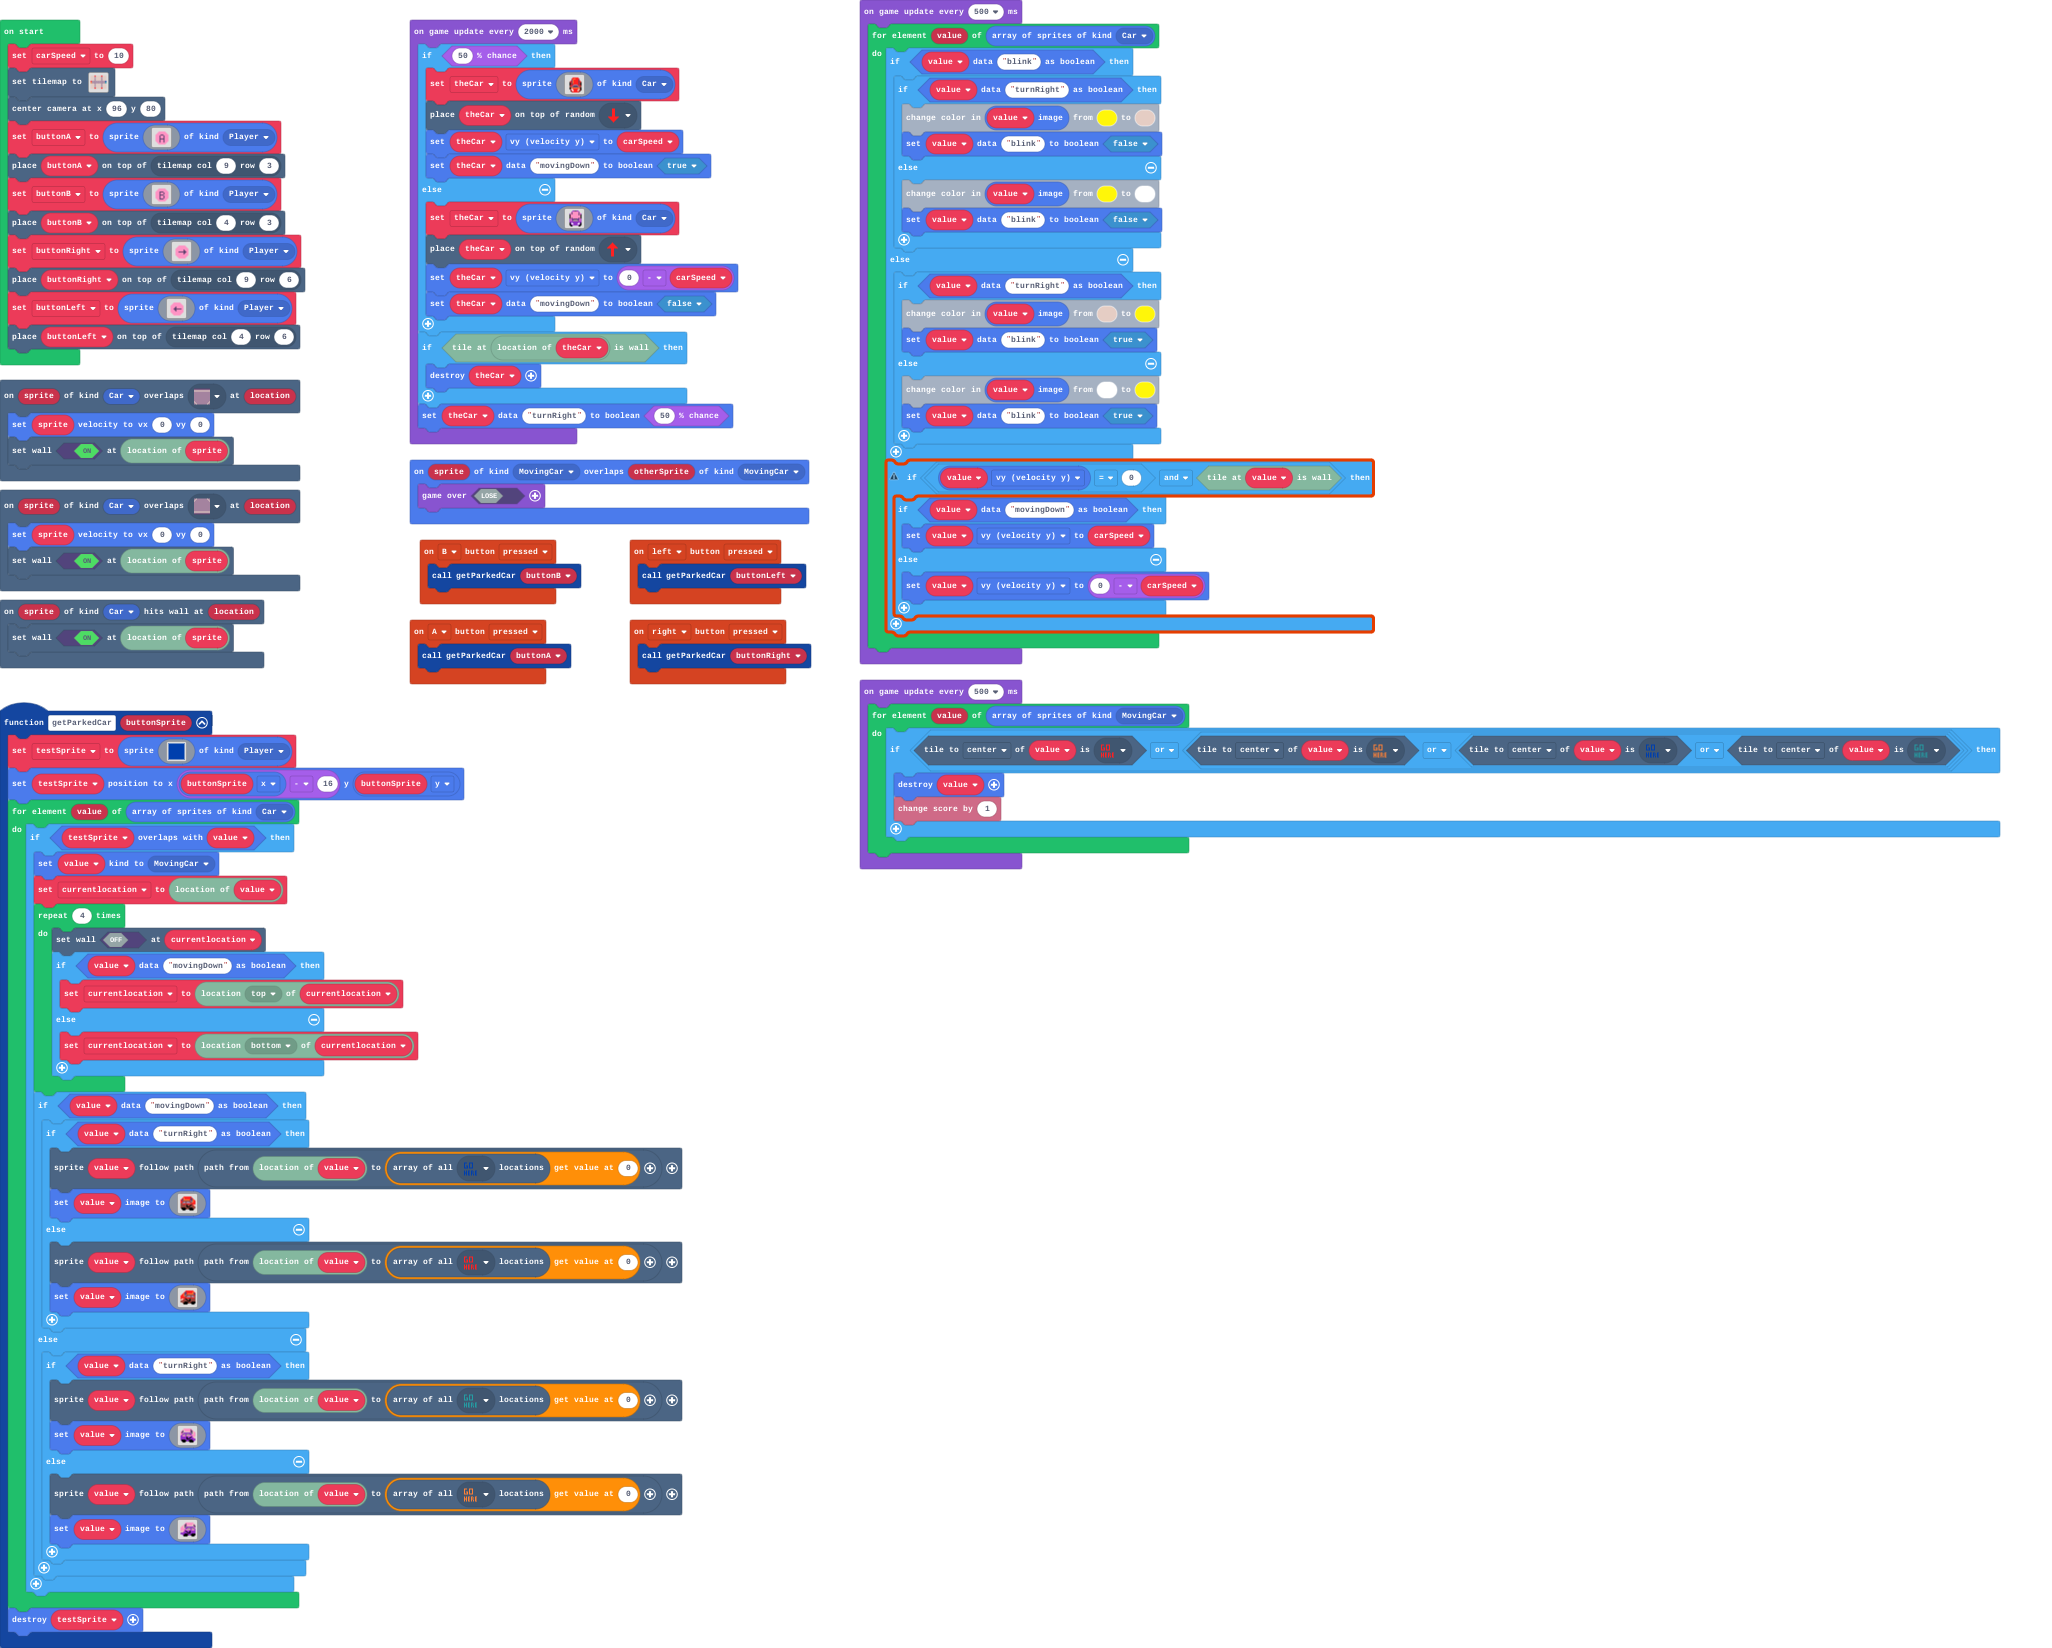
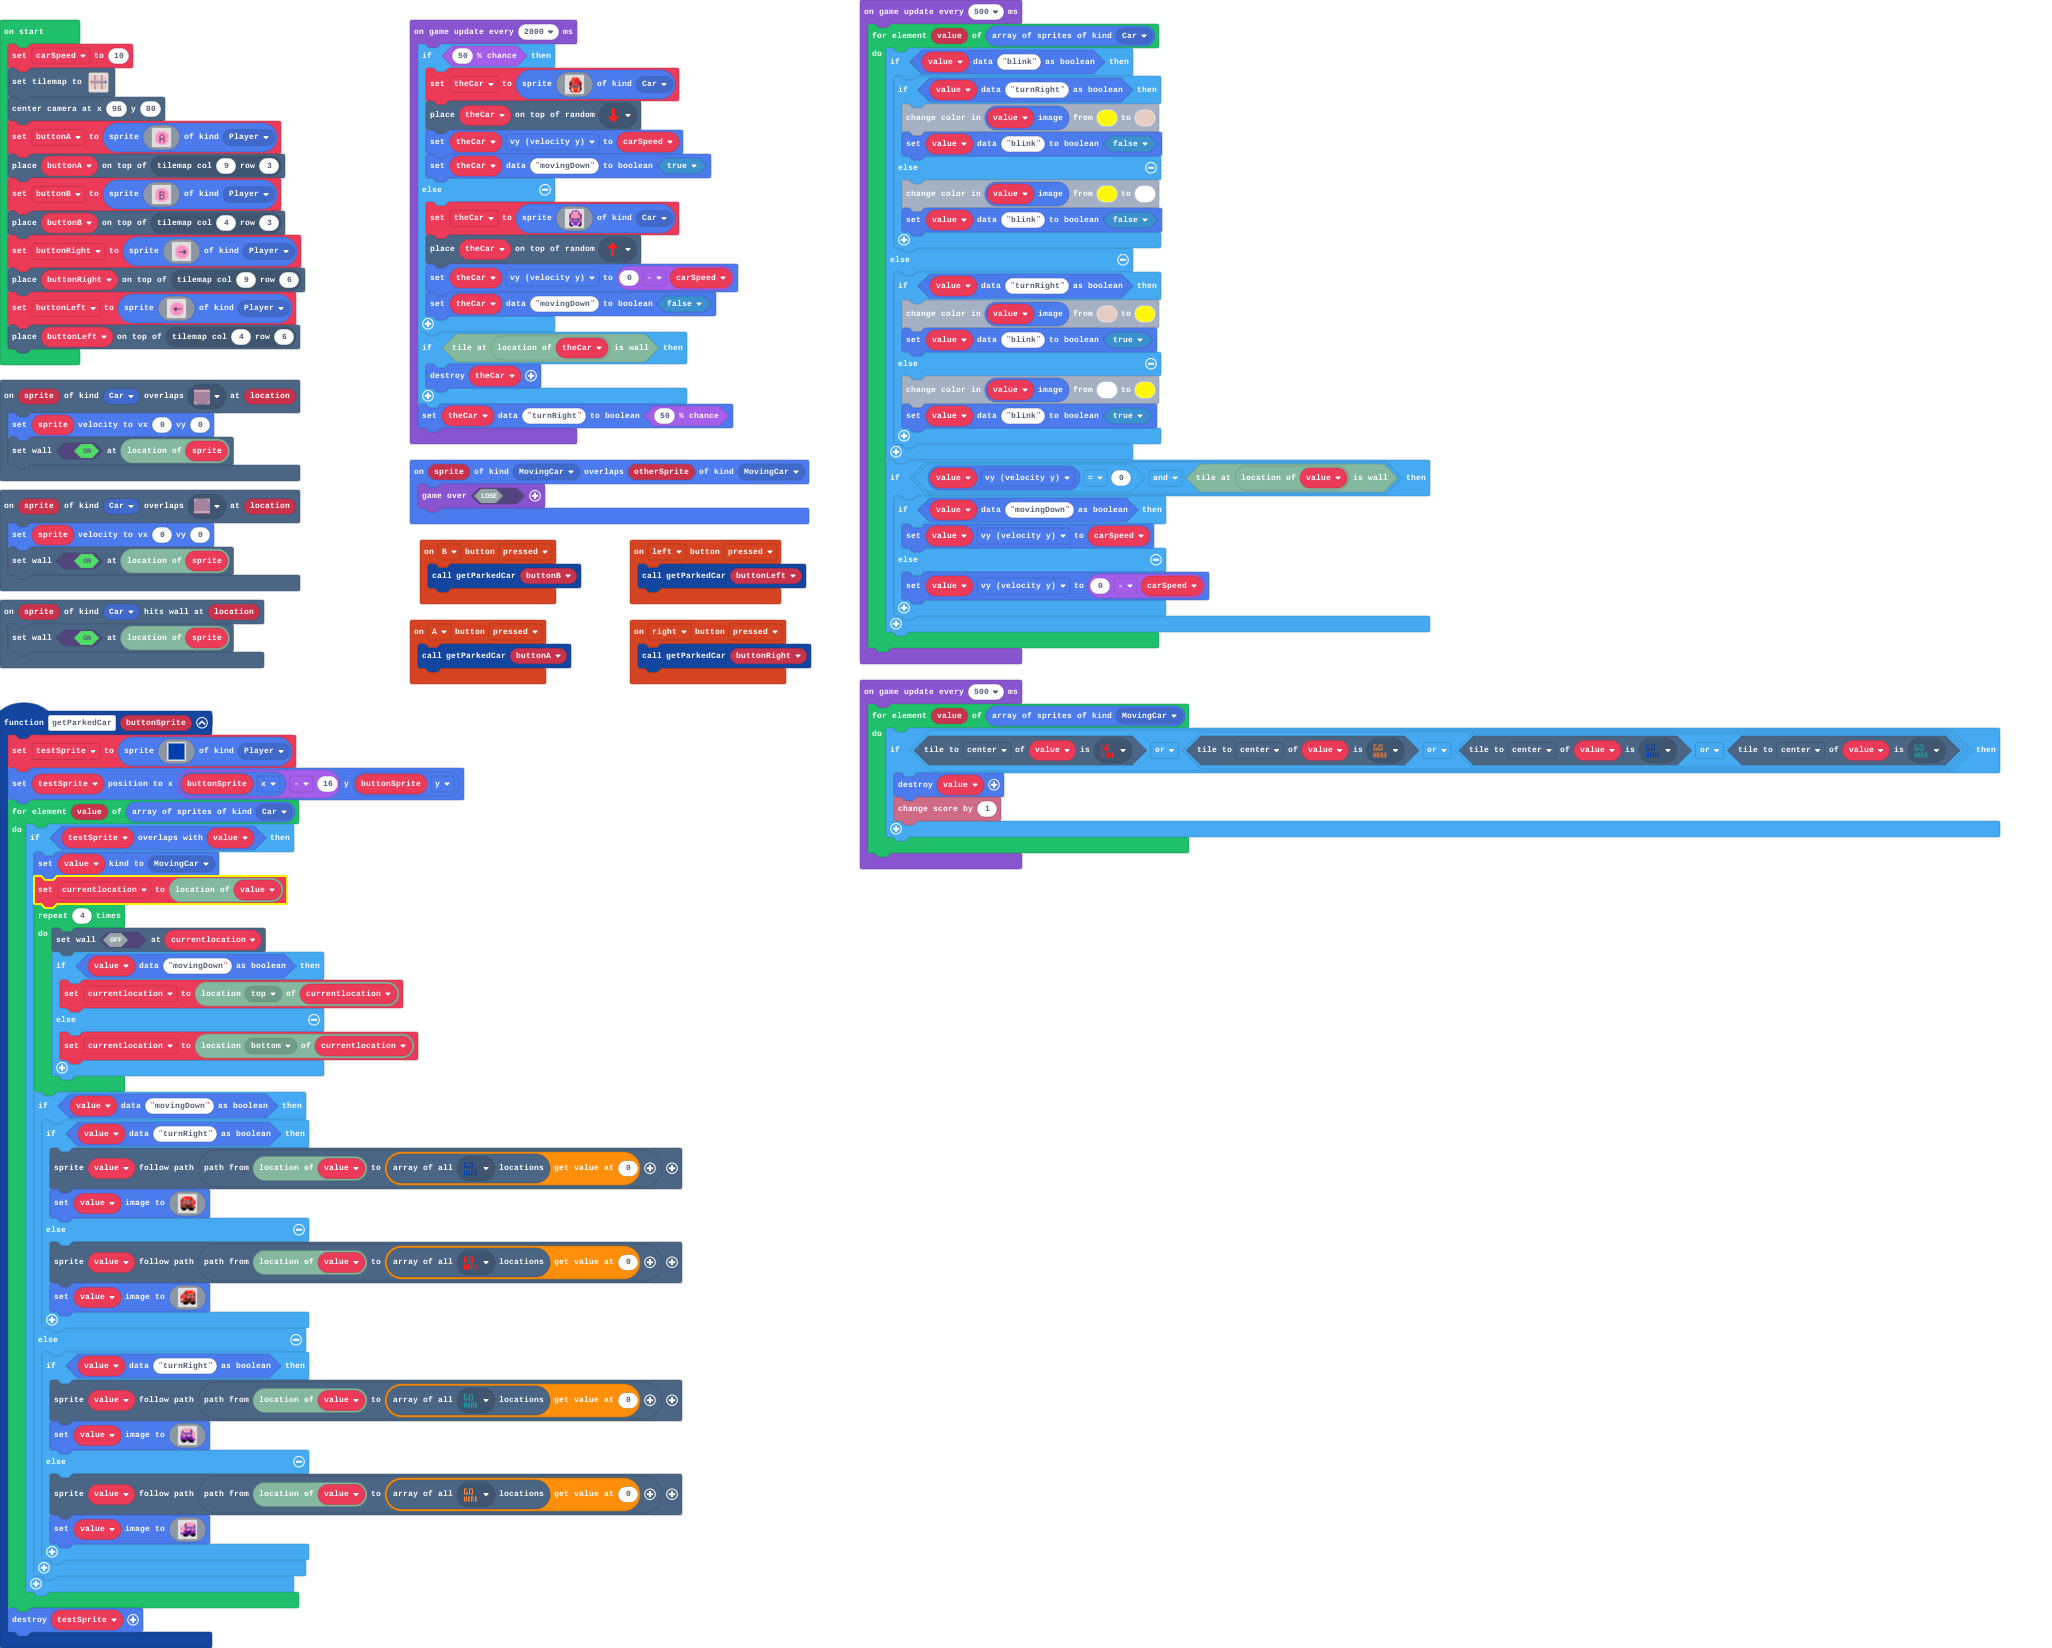
Update main.blocks, main.ts

Changed region(s): [[0.4055, 0.2785, 0.7173, 0.3714], [0.4366, 0.3714, 0.7173, 0.4023]]

diff --git a/main.ts b/main.ts
@@ -297,7 +297,7 @@ game.onUpdateInterval(500, function () {
                 sprites.setDataBoolean(value, "blink", true)
             }
         }
-        if (value.vy == 0 && tiles.tileIsWall(value)) {
+        if (value.vy == 0 && tiles.tileIsWall(tiles.locationOfSprite(value))) {
             if (sprites.readDataBoolean(value, "movingDown")) {
                 value.vy = carSpeed
             } else {
